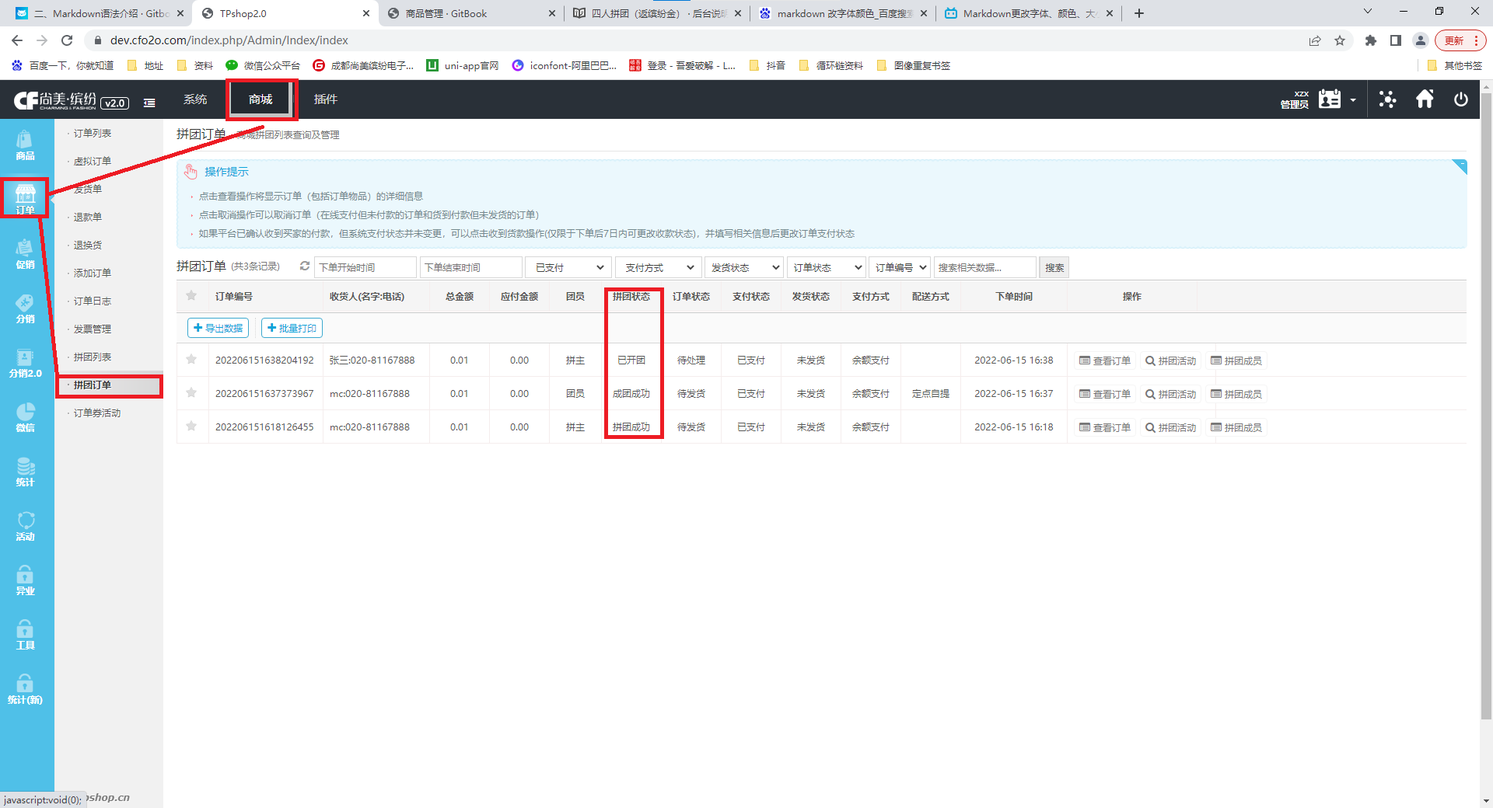
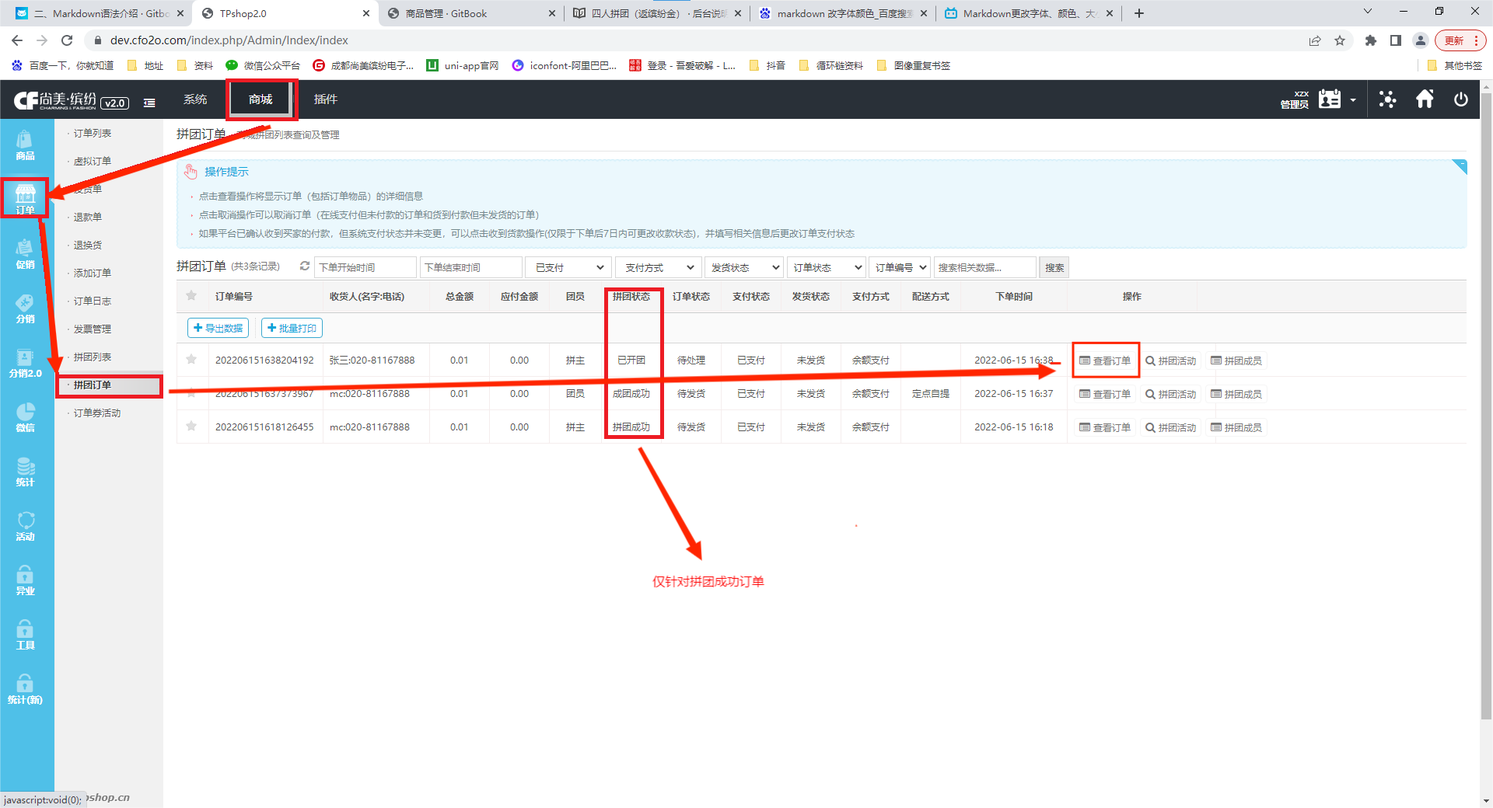
更新说明

diff --git a/store/team-rebate.html b/store/team-rebate.html
@@ -247,42 +247,21 @@
     <div class="search-noresults">
     
           <section class="normal markdown-section">
-             <h1 id="&#x56DB;&#x4EBA;&#x62FC;&#x56E2;&#xFF08;&#x8FD4;&#x7F24;&#x7EB7;&#x91D1;&#xFF09;">&#x56DB;&#x4EBA;&#x62FC;&#x56E2;&#xFF08;&#x8FD4;&#x7F24;&#x7EB7;&#x91D1;&#xFF09;</h1>
+             <p>&#x56DB;&#x4EBA;&#x62FC;&#x56E2;&#xFF08;&#x8FD4;&#x7F24;&#x7EB7;&#x91D1;&#xFF09;</p>
 <p>&#x529F;&#x80FD;&#x8DEF;&#x5F84; <strong>&#x5546;&#x57CE;-&#x4FC3;&#x9500;-&#x62FC;&#x56E2;&#x7BA1;&#x7406; </strong></p>
-<p><a href="static/&#x62FC;&#x56E2;&#x8DEF;&#x5F84;.png" data-lightbox="179a592f-9a16-48c9-af24-c11122680eb8" data-title=""><img src="static/&#x62FC;&#x56E2;&#x8DEF;&#x5F84;.png" alt=""></a></p>
+<p><a href="static/&#x62FC;&#x56E2;&#x8DEF;&#x5F84;.png" data-lightbox="ed8d4ad2-4d37-4e20-ad98-89fb1417a46e" data-title=""><img src="static/&#x62FC;&#x56E2;&#x8DEF;&#x5F84;.png" alt=""></a></p>
 <p>&#x70B9;&#x51FB; <strong>&#x6DFB;&#x52A0;&#x62FC;&#x56E2;</strong>&#x6309;&#x94AE;&#xFF0C;&#x589E;&#x52A0;&#x62FC;&#x56E2;&#x6D3B;&#x52A8;</p>
 <hr>
 <h2 id="&#x6DFB;&#x52A0;&#x56DB;&#x4EBA;&#x62FC;&#x56E2;&#xFF08;&#x8FD4;&#x7F24;&#x7EB7;&#x91D1;&#xFF09;">&#x6DFB;&#x52A0;&#x56DB;&#x4EBA;&#x62FC;&#x56E2;&#xFF08;&#x8FD4;&#x7F24;&#x7EB7;&#x91D1;&#xFF09;</h2>
-<p><a href="static/&#x6DFB;&#x52A0;&#x56DB;&#x4EBA;&#x62FC;&#x56E2;1.png" data-lightbox="179a592f-9a16-48c9-af24-c11122680eb8" data-title=""><img src="static/&#x6DFB;&#x52A0;&#x56DB;&#x4EBA;&#x62FC;&#x56E2;1.png" alt=""></a></p>
-<p><strong>&#x62FC;&#x56E2;&#x6807;&#x9898;</strong>&#xFF1A;&#x4E0A;&#x4E00;&#x7EA7;&#x62FC;&#x56E2;&#x5217;&#x8868;&#x663E;&#x793A;&#x7684;&#x62FC;&#x56E2;&#x540D;&#x5B57;&#xFF0C;&#x6807;&#x8BC6;&#x7B26;</p>
-<p><strong>&#x53D1;&#x653E;&#x7C7B;&#x578B;</strong>&#xFF1A;&#x9009;&#x62E9;<strong>&#x56DB;&#x4EBA;&#x62FC;&#x56E2;</strong> &#xFF0C;&#x8FD9;&#x91CC;&#x7684;&#x56DB;&#x4EBA;&#x62FC;&#x56E2;&#x9009;&#x9879;&#x5C31;&#x662F;&#x62FC;&#x56E2;&#x8FD4;&#x7F24;&#x7EB7;&#x91D1;&#x7684;&#x9009;&#x9879;</p>
-<p><strong>&#x9009;&#x62E9;&#x62FC;&#x56E2;&#x5546;&#x54C1;</strong>&#xFF1A;&#x5728;&#x5546;&#x54C1;&#x5E93;&#x4E2D;&#xFF0C;&#x9009;&#x62E9;<font color="red">&#x4E00;&#x6B3E;&#x6D3B;&#x52A8;/&#x54C1;&#x724C;&#x7F24;&#x7EB7;&#x91D1;</font>&#x5546;&#x54C1;&#x4F5C;&#x4E3A;&#x62FC;&#x56E2;&#x5546;&#x54C1;&#xFF08;    <font color="red">&#x6CE8;&#x610F;&#xFF1A;&#x8FD4;&#x7F24;&#x7EB7;&#x91D1;&#x7684;&#x7C7B;&#x578B;&#xFF0C;&#x53D6;&#x51B3;&#x4E8E;&#x8BE5;&#x5546;&#x54C1;&#x5C5E;&#x4E8E;&#x6D3B;&#x52A8;/&#x54C1;&#x724C;&#x7F24;&#x7EB7;&#x91D1;&#x5546;&#x54C1;</font>&#xFF09;&#x3010;&#x8BBE;&#x7F6E;&#x7F24;&#x7EB7;&#x91D1;&#x5546;&#x54C1;&#x5730;&#x5740;&#xFF08;&#x7CFB;&#x7EDF;-&#x8BBE;&#x7F6E;-&#x65B0;&#x7248;&#x7F24;&#x7EB7;&#x91D1;&#x8BBE;&#x7F6E;&#xFF09;&#x3011;</p>
-<p><strong>&#x6210;&#x56E2;&#x6709;&#x6548;&#x671F;</strong>&#xFF1A;&#x62FC;&#x56E2;&#x8BA2;&#x5355;&#x7684;&#x8FC7;&#x671F;&#x65F6;&#x95F4;</p>
-<p><strong>&#x7F24;&#x7EB7;&#x91D1;&#x6709;&#x6548;&#x65F6;&#x95F4;</strong>&#xFF1A;&#x8FD4;&#x8FD8;&#x7F24;&#x7EB7;&#x91D1;&#x7684;&#x6709;&#x6548;&#x65F6;&#x95F4;&#xFF0C;&#x4ECE;&#x62FC;&#x56E2;&#x6210;&#x529F;&#x540E;&#x7684;&#x65F6;&#x95F4;&#x5F00;&#x59CB;&#x8BA1;&#x7B97;</p>
-<p><strong>&#x56DB;&#x4EBA;&#x62FC;&#x56E2;&#x5206;&#x7EC4;</strong>&#xFF1A;&#x628A;&#x51E0;&#x4E2A;&#x62FC;&#x56E2;&#x6D3B;&#x52A8;&#x5546;&#x54C1;&#x6574;&#x5408;&#x6210;&#x4E00;&#x4E2A;&#x6D3B;&#x52A8;&#x5C0F;&#x7EC4;&#xFF0C;&#x540C;&#x4E00;&#x6D3B;&#x52A8;&#x5C0F;&#x7EC4;&#x7684;&#x62FC;&#x56E2;&#x5171;&#x4EAB;&#x5F00;&#x56E2;&#x6B21;&#x6570;&#x548C;&#x53C2;&#x56E2;&#x6B21;&#x6570;&#x3002;&#x76F8;&#x540C;&#x6570;&#x5B57;&#x7684;&#x51E0;&#x4E2A;&#x5546;&#x54C1;&#x88AB;&#x89C6;&#x4E3A;&#x4E00;&#x7EC4;&#x3002;</p>
-<p><strong>&#x5F00;&#x56E2;&#x6B21;&#x6570;&#x5546;&#x54C1;</strong>&#xFF1A;&#x62FC;&#x56E2;&#x53D1;&#x8D77;&#x8005;&#x7684;&#x6700;&#x5927;&#x53D1;&#x8D77;&#x6B21;&#x6570;</p>
-<p><strong>&#x53C2;&#x56E2;&#x6B21;&#x6570;&#x4E0A;&#x9650;</strong>&#xFF1A;&#x62FC;&#x56E2;&#x53C2;&#x4E0E;&#x8005;&#x7684;&#x6700;&#x5927;&#x53C2;&#x4E0E;&#x6B21;&#x6570;</p>
-<p><strong>&#x62FC;&#x56E2;&#x4EF7;&#x683C;</strong>&#xFF1A;&#x5546;&#x54C1;&#x5728;&#x62FC;&#x56E2;&#x6D3B;&#x52A8;&#x91CC;&#x7684;&#x4EF7;&#x683C;</p>
-<p><strong>&#x9700;&#x8981;&#x6210;&#x56E2;&#x4EBA;&#x6570;</strong>&#xFF1A;&#x62FC;&#x56E2;&#x9700;&#x8981;&#x7684;&#x6210;&#x529F;&#x4EBA;&#x6570;</p>
-<p><strong>&#x865A;&#x62DF;&#x9500;&#x552E;&#x57FA;&#x6570;</strong>&#xFF1A;&#x56DB;&#x4EBA;&#x62FC;&#x56E2;&#x529F;&#x80FD;&#x672A;&#x5C55;&#x793A;&#x5DF2;&#x9500;&#x552E;&#x6570;&#x91CF;&#xFF0C;&#x53EF;&#x5FFD;&#x7565;</p>
-<p><a href="static/&#x6DFB;&#x52A0;&#x56DB;&#x4EBA;&#x62FC;&#x56E2;2.png" data-lightbox="179a592f-9a16-48c9-af24-c11122680eb8" data-title=""><img src="static/&#x6DFB;&#x52A0;&#x56DB;&#x4EBA;&#x62FC;&#x56E2;2.png" alt=""></a></p>
-<p><strong>&#x5F00;&#x59CB;&#x65F6;&#x95F4;</strong>&#xFF1A;&#x62FC;&#x56E2;&#x5546;&#x54C1;&#x5F00;&#x56E2;&#x7684;&#x65F6;&#x95F4;&#xFF0C;&#x53EF;&#x63D0;&#x524D;&#x51E0;&#x5929;&#x6DFB;&#x52A0;&#xFF0C;&#x7528;&#x6237;&#x7AEF;&#x4F1A;&#x663E;&#x793A;&#x5F00;&#x56E2;&#x7684;&#x5F00;&#x59CB;&#x65F6;&#x95F4;</p>
-<p><strong>&#x7ED3;&#x675F;&#x65F6;&#x95F4;</strong>&#xFF1A;&#x62FC;&#x56E2;&#x5546;&#x54C1;&#x7ED3;&#x675F;&#x7684;&#x65F6;&#x95F4;&#x3002;&#x7528;&#x6237;&#x7AEF;&#x4F1A;&#x6709;&#x5012;&#x8BA1;&#x65F6;&#xFF0C;&#x6700;&#x5927;&#x5355;&#x4F4D;&#xFF1A;&#x5929;</p>
-<p><strong>&#x5206;&#x4EAB;&#x6807;&#x9898;</strong>&#xFF1A;&#x5206;&#x4EAB;&#x62FC;&#x56E2;&#x65F6;&#x7684;&#x6807;&#x9898;</p>
-<p><strong>&#x5206;&#x4EAB;&#x63CF;&#x8FF0;</strong>&#xFF1A;&#x5206;&#x4EAB;&#x62FC;&#x56E2;&#x65F6;&#x7684;&#x5177;&#x4F53;&#x63CF;&#x8FF0;</p>
-<p><strong>&#x5206;&#x4EAB;&#x56FE;&#x7247;</strong>&#xFF1A;&#x5206;&#x4EAB;&#x62FC;&#x56E2;&#x65F6;&#x7684;&#x56FE;&#x7247;</p>
-<p><strong>&#x53C2;&#x56E2;&#x7528;&#x6237;</strong>&#xFF1A;&#x9ED8;&#x8BA4;&#x5168;&#x90E8;&#x4F1A;&#x5458;&#xFF0C;&#x5F53;&#x9009;&#x62E9;&#x65B0;&#x6CE8;&#x518C;&#x7528;&#x6237;&#x65F6;&#xFF0C;&#x5219;&#x8001;&#x7528;&#x6237;&#x65E0;&#x6CD5;&#x62FC;&#x56E2;</p>
-<p><strong>&#x662F;&#x5426;&#x5305;&#x90AE;</strong>&#xFF1A;&#x9009;&#x62E9;&#x4E0D;&#x5305;&#x90AE;&#x65F6;&#xFF0C;&#x53EF;&#x5728;&#x53F3;&#x8FB9;&#x9009;&#x62E9;&#x8FD0;&#x8D39;&#x6A21;&#x677F;&#xFF0C;&#x4E3A;&#x5F53;&#x524D;&#x5546;&#x54C1;&#x9009;&#x62E9;&#x72EC;&#x7ACB;&#x7684;&#x8FD0;&#x8D39;&#x89C4;&#x5219;</p>
-<p><strong>&#x662F;&#x5426;&#x81EA;&#x52A8;&#x786E;&#x8BA4;&#x62FC;&#x56E2;</strong>&#xFF1A;&#x9ED8;&#x8BA4;&#x662F;&#xFF0C;&#x56DB;&#x4EBA;&#x62FC;&#x56E2;&#x4E0D;&#x80FD;&#x9009;&#x62E9;&#x5426;</p>
-<h3 id="&#x6CE8;&#x610F;">&#x6CE8;&#x610F;</h3>
-<p>&#x6DFB;&#x52A0;&#x62FC;&#x56E2;&#x540E;&#xFF0C;&#x672A;&#x6709;&#x62FC;&#x56E2;&#x8BA2;&#x5355;&#x65F6;&#xFF0C;&#x53EF;&#x5BF9;&#x62FC;&#x56E2;&#x8BBE;&#x7F6E;&#x8FDB;&#x884C;&#x66F4;&#x6539;&#xFF0C;&#x5F53;&#x5DF2;&#x521B;&#x5EFA;&#x62FC;&#x56E2;&#x8BA2;&#x5355;&#x540E;&#xFF0C;&#x5C06;&#x65E0;&#x6CD5;&#x66F4;&#x6539;&#x62FC;&#x56E2;&#x8BBE;&#x7F6E;</p>
+<h3 id=""><a href="static/&#x62FC;&#x56E2;&#x53C2;&#x6570;&#x8BF4;&#x660E;1.png" data-lightbox="ed8d4ad2-4d37-4e20-ad98-89fb1417a46e" data-title=""><img src="static/&#x62FC;&#x56E2;&#x53C2;&#x6570;&#x8BF4;&#x660E;1.png" alt=""></a></h3>
+<p><a href="static/&#x62FC;&#x56E2;&#x53C2;&#x6570;&#x8BF4;&#x660E;2.png" data-lightbox="ed8d4ad2-4d37-4e20-ad98-89fb1417a46e" data-title=""><img src="static/&#x62FC;&#x56E2;&#x53C2;&#x6570;&#x8BF4;&#x660E;2.png" alt=""></a>
+&#x6DFB;&#x52A0;&#x62FC;&#x56E2;&#x540E;&#xFF0C;&#x672A;&#x6709;&#x62FC;&#x56E2;&#x8BA2;&#x5355;&#x65F6;&#xFF0C;&#x53EF;&#x5BF9;&#x62FC;&#x56E2;&#x8BBE;&#x7F6E;&#x8FDB;&#x884C;&#x66F4;&#x6539;&#xFF0C;&#x5F53;&#x5DF2;&#x521B;&#x5EFA;&#x62FC;&#x56E2;&#x8BA2;&#x5355;&#x540E;&#xFF0C;&#x5C06;&#x65E0;&#x6CD5;&#x66F4;&#x6539;&#x62FC;&#x56E2;&#x8BBE;&#x7F6E;</p>
 <h3 id="&#x62FC;&#x56E2;&#x6210;&#x529F;-&#x540E;&#x53F0;-&#x9000;&#x6B3E;&#x529F;&#x80FD;">&#x62FC;&#x56E2;&#x6210;&#x529F; &#x540E;&#x53F0; &#x9000;&#x6B3E;&#x529F;&#x80FD;</h3>
-<p>  <a href="static/&#x62FC;&#x56E2;&#x5217;&#x8868;&#x9000;&#x6B3E;1.png" data-lightbox="179a592f-9a16-48c9-af24-c11122680eb8" data-title=""><img src="static/&#x62FC;&#x56E2;&#x5217;&#x8868;&#x9000;&#x6B3E;1.png" alt=""></a></p>
-<h3 id="&#x4EC5;&#x9488;&#x5BF9;&#x62FC;&#x56E2;&#x6210;&#x529F;&#x7684;&#x8BA2;&#x5355;">&#x4EC5;&#x9488;&#x5BF9;&#x62FC;&#x56E2;&#x6210;&#x529F;&#x7684;&#x8BA2;&#x5355;</h3>
+<p>  <a href="static/&#x62FC;&#x56E2;&#x5217;&#x8868;&#x9000;&#x6B3E;1.png" data-lightbox="ed8d4ad2-4d37-4e20-ad98-89fb1417a46e" data-title=""><img src="static/&#x62FC;&#x56E2;&#x5217;&#x8868;&#x9000;&#x6B3E;1.png" alt=""></a></p>
 <h3 id="&#x70B9;&#x51FB;&#x67E5;&#x770B;&#x8BA2;&#x5355;&#x8FDB;&#x5165;&#x652F;&#x6301;&#x6B64;&#x64CD;&#x4F5C;&#x65F6;&#xFF0C;&#x4F1A;&#x663E;&#x793A;&#x5728;&#x64CD;&#x4F5C;&#x4FE1;&#x606F;&#x91CC;">&#x70B9;&#x51FB;&#x67E5;&#x770B;&#x8BA2;&#x5355;&#x8FDB;&#x5165;(&#x652F;&#x6301;&#x6B64;&#x64CD;&#x4F5C;&#x65F6;&#xFF0C;&#x4F1A;&#x663E;&#x793A;&#x5728;&#x64CD;&#x4F5C;&#x4FE1;&#x606F;&#x91CC;)</h3>
-<p><a href="static/&#x62FC;&#x56E2;&#x5217;&#x8868;&#x9000;&#x6B3E;2.png" data-lightbox="179a592f-9a16-48c9-af24-c11122680eb8" data-title=""><img src="static/&#x62FC;&#x56E2;&#x5217;&#x8868;&#x9000;&#x6B3E;2.png" alt=""></a></p>
+<p><a href="static/&#x62FC;&#x56E2;&#x5217;&#x8868;&#x9000;&#x6B3E;2.png" data-lightbox="ed8d4ad2-4d37-4e20-ad98-89fb1417a46e" data-title=""><img src="static/&#x62FC;&#x56E2;&#x5217;&#x8868;&#x9000;&#x6B3E;2.png" alt=""></a></p>
 <h3 id="&#x6CE8;&#x610F;">&#x6CE8;&#x610F;</h3>
-<font style="color:red">1.&#x6536;&#x5230;&#x8D27;&#x540E;14&#x5929;&#x540E;&#xFF0C;&#x89E3;&#x51BB;&#x7F24;&#x7EB7;&#x91D1;</font><script>document.addEventListener("DOMContentLoaded", function() {lightbox.option({"resizeDuration":200,"wrapAround":true});})</script> 
+<font style="color:red">1.&#x6536;&#x5230;&#x8D27;&#x6216;&#x8005;&#x7528;&#x6237;&#x786E;&#x8BA4;&#x6536;&#x8D27;&#x540E;&#xFF0C;7&#x5929;&#x540E;&#xFF0C;&#x89E3;&#x51BB;&#x7F24;&#x7EB7;&#x91D1;</font><script>document.addEventListener("DOMContentLoaded", function() {lightbox.option({"resizeDuration":200,"wrapAround":true});})</script> 
           </section>
           
     </div>
@@ -363,7 +342,7 @@
 
     var gitbook = gitbook || [];
     gitbook.push(function () {
-      gitbook.page.hasChanged({"page":{"title":"四人拼团（返缤纷金）","level":"1.3.1","depth":2,"previous":{"title":"商城","level":"1.3","depth":1,"path":"store/README.md","ref":"store/README.md","articles":[{"title":"四人拼团（返缤纷金）","level":"1.3.1","depth":2,"path":"store/team-rebate.md","ref":"store/team-rebate.md","articles":[]}]},"dir":"ltr"},"config":{"plugins":["search-pro","code","expandable-chapters","theme-lou","lightbox"],"styles":{"website":"styles/website.css","pdf":"styles/pdf.css","epub":"styles/epub.css","mobi":"styles/mobi.css","ebook":"styles/ebook.css","print":"styles/print.css"},"pluginsConfig":{"search-pro":{},"search":{},"lunr":{"maxIndexSize":1000000,"ignoreSpecialCharacters":false},"code":{"copyButtons":true,"copyButton":true},"theme-lou":{"hide-elements":[".summary .gitbook-link",".summary .divider",".book-anchor-title",".title",".book-summary-title"],"color":"#20A3FF","book-anchor-title":"","logo":"static/logo.png","book-summary-title":"说明文档","search-placeholder":"搜索","copyrightLogo":"assets/copyright.png","favicon":"static/favicon.ico","appleTouchIconPrecomposed152":"static/apple.png"},"fontsettings":{"theme":"white","family":"sans","size":2},"highlight":{},"lightbox":{"jquery":true,"includeJQuery":false,"sameUuid":true,"options":{"resizeDuration":200,"wrapAround":true}},"sharing":{"facebook":true,"twitter":true,"google":false,"weibo":false,"instapaper":false,"vk":false,"all":["facebook","google","twitter","weibo","instapaper"]},"theme-default":{"styles":{"website":"styles/website.css","pdf":"styles/pdf.css","epub":"styles/epub.css","mobi":"styles/mobi.css","ebook":"styles/ebook.css","print":"styles/print.css"},"showLevel":false},"expandable-chapters":{}},"theme":"default","author":"作者","pdf":{"pageNumbers":true,"fontSize":12,"fontFamily":"Arial","paperSize":"a4","chapterMark":"pagebreak","pageBreaksBefore":"/","margin":{"right":62,"left":62,"top":56,"bottom":56}},"structure":{"langs":"LANGS.md","readme":"README.md","glossary":"GLOSSARY.md","summary":"SUMMARY.md"},"isbn":"图书编号","variables":{},"title":"后台说明文档","language":"zh-hans","gitbook":"*","description":"针对于后台的一本说明文档"},"file":{"path":"store/team-rebate.md","mtime":"2022-06-18T02:56:27.305Z","type":"markdown"},"gitbook":{"version":"3.2.3","time":"2022-06-18T02:56:54.617Z"},"basePath":"..","book":{"language":""}});
+      gitbook.page.hasChanged({"page":{"title":"四人拼团（返缤纷金）","level":"1.3.1","depth":2,"previous":{"title":"商城","level":"1.3","depth":1,"path":"store/README.md","ref":"store/README.md","articles":[{"title":"四人拼团（返缤纷金）","level":"1.3.1","depth":2,"path":"store/team-rebate.md","ref":"store/team-rebate.md","articles":[]}]},"dir":"ltr"},"config":{"plugins":["search-pro","code","expandable-chapters","theme-lou","lightbox"],"styles":{"website":"styles/website.css","pdf":"styles/pdf.css","epub":"styles/epub.css","mobi":"styles/mobi.css","ebook":"styles/ebook.css","print":"styles/print.css"},"pluginsConfig":{"search-pro":{},"search":{},"lunr":{"maxIndexSize":1000000,"ignoreSpecialCharacters":false},"code":{"copyButtons":true,"copyButton":true},"theme-lou":{"hide-elements":[".summary .gitbook-link",".summary .divider",".book-anchor-title",".title",".book-summary-title"],"color":"#20A3FF","book-anchor-title":"","logo":"static/logo.png","book-summary-title":"说明文档","search-placeholder":"搜索","copyrightLogo":"assets/copyright.png","favicon":"static/favicon.ico","appleTouchIconPrecomposed152":"static/apple.png"},"fontsettings":{"theme":"white","family":"sans","size":2},"highlight":{},"lightbox":{"jquery":true,"includeJQuery":false,"sameUuid":true,"options":{"resizeDuration":200,"wrapAround":true}},"sharing":{"facebook":true,"twitter":true,"google":false,"weibo":false,"instapaper":false,"vk":false,"all":["facebook","google","twitter","weibo","instapaper"]},"theme-default":{"styles":{"website":"styles/website.css","pdf":"styles/pdf.css","epub":"styles/epub.css","mobi":"styles/mobi.css","ebook":"styles/ebook.css","print":"styles/print.css"},"showLevel":false},"expandable-chapters":{}},"theme":"default","author":"作者","pdf":{"pageNumbers":true,"fontSize":12,"fontFamily":"Arial","paperSize":"a4","chapterMark":"pagebreak","pageBreaksBefore":"/","margin":{"right":62,"left":62,"top":56,"bottom":56}},"structure":{"langs":"LANGS.md","readme":"README.md","glossary":"GLOSSARY.md","summary":"SUMMARY.md"},"isbn":"图书编号","variables":{},"title":"后台说明文档","language":"zh-hans","gitbook":"*","description":"针对于后台的一本说明文档"},"file":{"path":"store/team-rebate.md","mtime":"2022-07-05T07:53:39.786Z","type":"markdown"},"gitbook":{"version":"3.2.3","time":"2022-07-05T08:00:33.953Z"},"basePath":"..","book":{"language":""}});
     });
   </script>
 </div>

diff --git a/system/new-color-gold.html b/system/new-color-gold.html
@@ -253,14 +253,7 @@
 <p>&#x6B64;&#x5904;&#x662F;&#x6279;&#x91CF;&#x7ED9;&#x666E;&#x901A;&#x5546;&#x54C1;&#x6253;&#x4E0A; <strong>&#x6D3B;&#x52A8;/&#x54C1;&#x724C;&#x7F24;&#x7EB7;&#x91D1;&#x6807;&#x7B7E;  </strong>,&#x5F53;&#x7528;&#x6237;&#x5B58;&#x5728;&#x5BF9;&#x5E94;&#x7F24;&#x7EB7;&#x91D1;&#x65F6;&#xFF0C;&#x5219;&#x53EF;&#x4EE5;&#x4F7F;&#x7528;&#x5BF9;&#x5E94;&#x7F24;&#x7EB7;&#x91D1;&#x8D2D;&#x4E70;&#x7F24;&#x7EB7;&#x91D1;&#x5546;&#x54C1;</p>
 <p>&#x6CE8;&#xFF1A;&#x7EFC;&#x5408;&#x7F24;&#x7EB7;&#x91D1; === &#x6D3B;&#x52A8;&#x7F24;&#x7EB7;&#x91D1;</p>
 <h4 id="&#x6279;&#x91CF;&#x6DFB;&#x52A0;&#x6D3B;&#x52A8;&#x54C1;&#x724C;&#x7F24;&#x7EB7;&#x91D1;&#x6807;&#x7B7E;">&#x6279;&#x91CF;&#x6DFB;&#x52A0;&#x6D3B;&#x52A8;/&#x54C1;&#x724C;&#x7F24;&#x7EB7;&#x91D1;&#x6807;&#x7B7E;</h4>
-<p><a href="static/&#x65B0;&#x7248;&#x7F24;&#x7EB7;&#x91D1;.png" data-lightbox="7d6be4ac-d332-41d8-80c7-9309259b5f5b" data-title="undefined"><img src="static/&#x65B0;&#x7248;&#x7F24;&#x7EB7;&#x91D1;.png" alt="undefined"></a></p>
-<p>&#x70B9;&#x51FB; <strong>&#x9009;&#x62E9;&#x5546;&#x54C1;</strong>  &#x53EF;&#x4EE5;&#x4ECE;&#x5DF2;&#x6709;&#x7684;&#x5546;&#x54C1;&#x5E93;&#x4E2D;&#xFF0C;&#x9009;&#x62E9;&#x5176;&#x4E2D;&#x7684;&#x666E;&#x901A;&#x5546;&#x54C1;&#xFF0C;&#x4F7F;&#x5176;&#x52A0;&#x4E0A;&#x5BF9;&#x5E94;&#x7684;&#x6807;&#x7B7E;</p>
-<p>&#x70B9;&#x51FB; <strong>&#x4E0A;&#x4F20;&#x6587;&#x4EF6; </strong> &#x53EF;&#x4EE5;&#x4ECE; <code>.xls .xlsx .csv</code>&#x8FD9;&#x4E09;&#x4E2D;&#x8868;&#x683C;&#x683C;&#x5F0F;&#x4E2D;&#xFF0C;&#x6279;&#x91CF;&#x5BFC;&#x5165;&#x9700;&#x8981;&#x52A0;&#x5165;&#x7684;&#x5546;&#x54C1;</p>
-<h4 id="&#x6D3B;&#x52A8;&#x7EFC;&#x5408;&#x7F24;&#x7EB7;&#x91D1;&#x4F7F;&#x7528;&#x6BD4;&#x4F8B;">&#x6D3B;&#x52A8;/&#x7EFC;&#x5408;&#x7F24;&#x7EB7;&#x91D1;&#x4F7F;&#x7528;&#x6BD4;&#x4F8B;</h4>
-<p><a href="static/&#x7F24;&#x7EB7;&#x91D1;&#x6BD4;&#x4F8B;.png" data-lightbox="7d6be4ac-d332-41d8-80c7-9309259b5f5b" data-title=""><img src="static/&#x7F24;&#x7EB7;&#x91D1;&#x6BD4;&#x4F8B;.png" alt=""></a></p>
-<p>&#x6B64;&#x5904;&#x7684; <strong>&#x4F7F;&#x7528;&#x6BD4;&#x4F8B;</strong>&#x662F;&#x6307;&#x5F53;&#x524D;&#x5546;&#x54C1;&#x6D3B;&#x52A8;/&#x54C1;&#x724C;&#x7F24;&#x7EB7;&#x91D1;&#x4F7F;&#x7528;&#x6BD4;&#x4F8B;</p>
-<p>&#x5546;&#x54C1;&#x4EF7;&#x683C; * &#x4F7F;&#x7528;&#x6BD4;&#x4F8B; = &#x5546;&#x54C1;&#x6700;&#x5927;&#x80FD;&#x4F7F;&#x7528;&#x7684;&#x6D3B;&#x52A8;/&#x54C1;&#x724C;&#x7F24;&#x7EB7;&#x91D1;&#x6570;&#x91CF;</p>
-<p>&#x8BBE;&#x7F6E;&#x4E3A;0&#x5219;&#x8868;&#x793A;  &#x4EC5;&#x5728;&#x62FC;&#x56E2;&#x8BA2;&#x5355;&#x4E2D;&#x663E;&#x793A;</p>
+<p><a href="static/&#x65B0;&#x7248;&#x7F24;&#x7EB7;&#x91D1;.png" data-lightbox="2a6e7fdd-1bb4-43ff-bd93-e59561113e93" data-title="undefined"><img src="static/&#x65B0;&#x7248;&#x7F24;&#x7EB7;&#x91D1;.png" alt="undefined"></a></p>
 <h4 id="&#x6CE8;&#x610F;">&#x6CE8;&#x610F;</h4>
 <p>&#x5728;&#x70B9;&#x51FB;&#x5E95;&#x90E8;  <strong>&#x786E;&#x8BA4;&#x63D0;&#x4EA4;</strong> &#x6309;&#x94AE;&#x4E4B;&#x540E;&#xFF0C;&#x4E0A;&#x65B9;&#x9009;&#x62E9;&#x7684;&#x5546;&#x54C1;&#x624D;&#x4F1A;&#x88AB;&#x6DFB;&#x52A0;&#x4E0A;&#x6D3B;&#x52A8;/&#x54C1;&#x724C;&#x7F24;&#x7EB7;&#x91D1;&#x6807;&#x7B7E;</p>
 <script>document.addEventListener("DOMContentLoaded", function() {lightbox.option({"resizeDuration":200,"wrapAround":true});})</script> 
@@ -355,7 +348,7 @@
 
     var gitbook = gitbook || [];
     gitbook.push(function () {
-      gitbook.page.hasChanged({"page":{"title":"新版缤纷金","level":"1.2.1","depth":2,"next":{"title":"商城","level":"1.3","depth":1,"path":"store/README.md","ref":"store/README.md","articles":[{"title":"四人拼团（返缤纷金）","level":"1.3.1","depth":2,"path":"store/team-rebate.md","ref":"store/team-rebate.md","articles":[]}]},"previous":{"title":"系统","level":"1.2","depth":1,"path":"system/README.md","ref":"system/README.md","articles":[{"title":"新版缤纷金","level":"1.2.1","depth":2,"path":"system/new-color-gold.md","ref":"system/new-color-gold.md","articles":[]}]},"dir":"ltr"},"config":{"plugins":["search-pro","code","expandable-chapters","theme-lou","lightbox"],"styles":{"website":"styles/website.css","pdf":"styles/pdf.css","epub":"styles/epub.css","mobi":"styles/mobi.css","ebook":"styles/ebook.css","print":"styles/print.css"},"pluginsConfig":{"search-pro":{},"search":{},"lunr":{"maxIndexSize":1000000,"ignoreSpecialCharacters":false},"code":{"copyButtons":true,"copyButton":true},"theme-lou":{"hide-elements":[".summary .gitbook-link",".summary .divider",".book-anchor-title",".title",".book-summary-title"],"color":"#20A3FF","book-anchor-title":"","logo":"static/logo.png","book-summary-title":"说明文档","search-placeholder":"搜索","copyrightLogo":"assets/copyright.png","favicon":"static/favicon.ico","appleTouchIconPrecomposed152":"static/apple.png"},"fontsettings":{"theme":"white","family":"sans","size":2},"highlight":{},"lightbox":{"jquery":true,"includeJQuery":false,"sameUuid":true,"options":{"resizeDuration":200,"wrapAround":true}},"sharing":{"facebook":true,"twitter":true,"google":false,"weibo":false,"instapaper":false,"vk":false,"all":["facebook","google","twitter","weibo","instapaper"]},"theme-default":{"styles":{"website":"styles/website.css","pdf":"styles/pdf.css","epub":"styles/epub.css","mobi":"styles/mobi.css","ebook":"styles/ebook.css","print":"styles/print.css"},"showLevel":false},"expandable-chapters":{}},"theme":"default","author":"作者","pdf":{"pageNumbers":true,"fontSize":12,"fontFamily":"Arial","paperSize":"a4","chapterMark":"pagebreak","pageBreaksBefore":"/","margin":{"right":62,"left":62,"top":56,"bottom":56}},"structure":{"langs":"LANGS.md","readme":"README.md","glossary":"GLOSSARY.md","summary":"SUMMARY.md"},"isbn":"图书编号","variables":{},"title":"后台说明文档","language":"zh-hans","gitbook":"*","description":"针对于后台的一本说明文档"},"file":{"path":"system/new-color-gold.md","mtime":"2022-06-16T08:58:51.593Z","type":"markdown"},"gitbook":{"version":"3.2.3","time":"2022-06-18T02:56:54.617Z"},"basePath":"..","book":{"language":""}});
+      gitbook.page.hasChanged({"page":{"title":"新版缤纷金","level":"1.2.1","depth":2,"next":{"title":"商城","level":"1.3","depth":1,"path":"store/README.md","ref":"store/README.md","articles":[{"title":"四人拼团（返缤纷金）","level":"1.3.1","depth":2,"path":"store/team-rebate.md","ref":"store/team-rebate.md","articles":[]}]},"previous":{"title":"系统","level":"1.2","depth":1,"path":"system/README.md","ref":"system/README.md","articles":[{"title":"新版缤纷金","level":"1.2.1","depth":2,"path":"system/new-color-gold.md","ref":"system/new-color-gold.md","articles":[]}]},"dir":"ltr"},"config":{"plugins":["search-pro","code","expandable-chapters","theme-lou","lightbox"],"styles":{"website":"styles/website.css","pdf":"styles/pdf.css","epub":"styles/epub.css","mobi":"styles/mobi.css","ebook":"styles/ebook.css","print":"styles/print.css"},"pluginsConfig":{"search-pro":{},"search":{},"lunr":{"maxIndexSize":1000000,"ignoreSpecialCharacters":false},"code":{"copyButtons":true,"copyButton":true},"theme-lou":{"hide-elements":[".summary .gitbook-link",".summary .divider",".book-anchor-title",".title",".book-summary-title"],"color":"#20A3FF","book-anchor-title":"","logo":"static/logo.png","book-summary-title":"说明文档","search-placeholder":"搜索","copyrightLogo":"assets/copyright.png","favicon":"static/favicon.ico","appleTouchIconPrecomposed152":"static/apple.png"},"fontsettings":{"theme":"white","family":"sans","size":2},"highlight":{},"lightbox":{"jquery":true,"includeJQuery":false,"sameUuid":true,"options":{"resizeDuration":200,"wrapAround":true}},"sharing":{"facebook":true,"twitter":true,"google":false,"weibo":false,"instapaper":false,"vk":false,"all":["facebook","google","twitter","weibo","instapaper"]},"theme-default":{"styles":{"website":"styles/website.css","pdf":"styles/pdf.css","epub":"styles/epub.css","mobi":"styles/mobi.css","ebook":"styles/ebook.css","print":"styles/print.css"},"showLevel":false},"expandable-chapters":{}},"theme":"default","author":"作者","pdf":{"pageNumbers":true,"fontSize":12,"fontFamily":"Arial","paperSize":"a4","chapterMark":"pagebreak","pageBreaksBefore":"/","margin":{"right":62,"left":62,"top":56,"bottom":56}},"structure":{"langs":"LANGS.md","readme":"README.md","glossary":"GLOSSARY.md","summary":"SUMMARY.md"},"isbn":"图书编号","variables":{},"title":"后台说明文档","language":"zh-hans","gitbook":"*","description":"针对于后台的一本说明文档"},"file":{"path":"system/new-color-gold.md","mtime":"2022-07-05T07:18:17.496Z","type":"markdown"},"gitbook":{"version":"3.2.3","time":"2022-07-05T08:00:33.953Z"},"basePath":"..","book":{"language":""}});
     });
   </script>
 </div>

diff --git a/index.html b/index.html
@@ -247,8 +247,8 @@
     <div class="search-noresults">
     
           <section class="normal markdown-section">
-             <h2 id="&#x7CFB;&#x7EDF;"><a href="system/">&#x7CFB;&#x7EDF;</a></h2>
-<h2 id="&#x5546;&#x57CE;"><a href="store/">&#x5546;&#x57CE;</a></h2>
+             <h1 id="&#x7CFB;&#x7EDF;"><a href="system/">&#x7CFB;&#x7EDF;</a></h1>
+<h1 id="&#x5546;&#x57CE;"><a href="store/">&#x5546;&#x57CE;</a></h1>
 <script>document.addEventListener("DOMContentLoaded", function() {lightbox.option({"resizeDuration":200,"wrapAround":true});})</script> 
           </section>
           
@@ -330,7 +330,7 @@
 
     var gitbook = gitbook || [];
     gitbook.push(function () {
-      gitbook.page.hasChanged({"page":{"title":"前言","level":"1.1","depth":1,"next":{"title":"系统","level":"1.2","depth":1,"path":"system/README.md","ref":"system/README.md","articles":[{"title":"新版缤纷金","level":"1.2.1","depth":2,"path":"system/new-color-gold.md","ref":"system/new-color-gold.md","articles":[]}]},"dir":"ltr"},"config":{"plugins":["search-pro","code","expandable-chapters","theme-lou","lightbox"],"styles":{"website":"styles/website.css","pdf":"styles/pdf.css","epub":"styles/epub.css","mobi":"styles/mobi.css","ebook":"styles/ebook.css","print":"styles/print.css"},"pluginsConfig":{"search-pro":{},"search":{},"lunr":{"maxIndexSize":1000000,"ignoreSpecialCharacters":false},"code":{"copyButtons":true,"copyButton":true},"theme-lou":{"hide-elements":[".summary .gitbook-link",".summary .divider",".book-anchor-title",".title",".book-summary-title"],"color":"#20A3FF","book-anchor-title":"","logo":"static/logo.png","book-summary-title":"说明文档","search-placeholder":"搜索","copyrightLogo":"assets/copyright.png","favicon":"static/favicon.ico","appleTouchIconPrecomposed152":"static/apple.png"},"fontsettings":{"theme":"white","family":"sans","size":2},"highlight":{},"lightbox":{"jquery":true,"includeJQuery":false,"sameUuid":true,"options":{"resizeDuration":200,"wrapAround":true}},"sharing":{"facebook":true,"twitter":true,"google":false,"weibo":false,"instapaper":false,"vk":false,"all":["facebook","google","twitter","weibo","instapaper"]},"theme-default":{"styles":{"website":"styles/website.css","pdf":"styles/pdf.css","epub":"styles/epub.css","mobi":"styles/mobi.css","ebook":"styles/ebook.css","print":"styles/print.css"},"showLevel":false},"expandable-chapters":{}},"theme":"default","author":"作者","pdf":{"pageNumbers":true,"fontSize":12,"fontFamily":"Arial","paperSize":"a4","chapterMark":"pagebreak","pageBreaksBefore":"/","margin":{"right":62,"left":62,"top":56,"bottom":56}},"structure":{"langs":"LANGS.md","readme":"README.md","glossary":"GLOSSARY.md","summary":"SUMMARY.md"},"isbn":"图书编号","variables":{},"title":"后台说明文档","language":"zh-hans","gitbook":"*","description":"针对于后台的一本说明文档"},"file":{"path":"README.md","mtime":"2022-06-15T07:15:44.764Z","type":"markdown"},"gitbook":{"version":"3.2.3","time":"2022-06-18T02:56:54.617Z"},"basePath":".","book":{"language":""}});
+      gitbook.page.hasChanged({"page":{"title":"前言","level":"1.1","depth":1,"next":{"title":"系统","level":"1.2","depth":1,"path":"system/README.md","ref":"system/README.md","articles":[{"title":"新版缤纷金","level":"1.2.1","depth":2,"path":"system/new-color-gold.md","ref":"system/new-color-gold.md","articles":[]}]},"dir":"ltr"},"config":{"plugins":["search-pro","code","expandable-chapters","theme-lou","lightbox"],"styles":{"website":"styles/website.css","pdf":"styles/pdf.css","epub":"styles/epub.css","mobi":"styles/mobi.css","ebook":"styles/ebook.css","print":"styles/print.css"},"pluginsConfig":{"search-pro":{},"search":{},"lunr":{"maxIndexSize":1000000,"ignoreSpecialCharacters":false},"code":{"copyButtons":true,"copyButton":true},"theme-lou":{"hide-elements":[".summary .gitbook-link",".summary .divider",".book-anchor-title",".title",".book-summary-title"],"color":"#20A3FF","book-anchor-title":"","logo":"static/logo.png","book-summary-title":"说明文档","search-placeholder":"搜索","copyrightLogo":"assets/copyright.png","favicon":"static/favicon.ico","appleTouchIconPrecomposed152":"static/apple.png"},"fontsettings":{"theme":"white","family":"sans","size":2},"highlight":{},"lightbox":{"jquery":true,"includeJQuery":false,"sameUuid":true,"options":{"resizeDuration":200,"wrapAround":true}},"sharing":{"facebook":true,"twitter":true,"google":false,"weibo":false,"instapaper":false,"vk":false,"all":["facebook","google","twitter","weibo","instapaper"]},"theme-default":{"styles":{"website":"styles/website.css","pdf":"styles/pdf.css","epub":"styles/epub.css","mobi":"styles/mobi.css","ebook":"styles/ebook.css","print":"styles/print.css"},"showLevel":false},"expandable-chapters":{}},"theme":"default","author":"作者","pdf":{"pageNumbers":true,"fontSize":12,"fontFamily":"Arial","paperSize":"a4","chapterMark":"pagebreak","pageBreaksBefore":"/","margin":{"right":62,"left":62,"top":56,"bottom":56}},"structure":{"langs":"LANGS.md","readme":"README.md","glossary":"GLOSSARY.md","summary":"SUMMARY.md"},"isbn":"图书编号","variables":{},"title":"后台说明文档","language":"zh-hans","gitbook":"*","description":"针对于后台的一本说明文档"},"file":{"path":"README.md","mtime":"2022-07-05T08:00:05.312Z","type":"markdown"},"gitbook":{"version":"3.2.3","time":"2022-07-05T08:00:33.953Z"},"basePath":".","book":{"language":""}});
     });
   </script>
 </div>

diff --git a/store/index.html b/store/index.html
@@ -342,7 +342,7 @@
 
     var gitbook = gitbook || [];
     gitbook.push(function () {
-      gitbook.page.hasChanged({"page":{"title":"商城","level":"1.3","depth":1,"next":{"title":"四人拼团（返缤纷金）","level":"1.3.1","depth":2,"path":"store/team-rebate.md","ref":"store/team-rebate.md","articles":[]},"previous":{"title":"新版缤纷金","level":"1.2.1","depth":2,"path":"system/new-color-gold.md","ref":"system/new-color-gold.md","articles":[]},"dir":"ltr"},"config":{"plugins":["search-pro","code","expandable-chapters","theme-lou","lightbox"],"styles":{"website":"styles/website.css","pdf":"styles/pdf.css","epub":"styles/epub.css","mobi":"styles/mobi.css","ebook":"styles/ebook.css","print":"styles/print.css"},"pluginsConfig":{"search-pro":{},"search":{},"lunr":{"maxIndexSize":1000000,"ignoreSpecialCharacters":false},"code":{"copyButtons":true,"copyButton":true},"theme-lou":{"hide-elements":[".summary .gitbook-link",".summary .divider",".book-anchor-title",".title",".book-summary-title"],"color":"#20A3FF","book-anchor-title":"","logo":"static/logo.png","book-summary-title":"说明文档","search-placeholder":"搜索","copyrightLogo":"assets/copyright.png","favicon":"static/favicon.ico","appleTouchIconPrecomposed152":"static/apple.png"},"fontsettings":{"theme":"white","family":"sans","size":2},"highlight":{},"lightbox":{"jquery":true,"includeJQuery":false,"sameUuid":true,"options":{"resizeDuration":200,"wrapAround":true}},"sharing":{"facebook":true,"twitter":true,"google":false,"weibo":false,"instapaper":false,"vk":false,"all":["facebook","google","twitter","weibo","instapaper"]},"theme-default":{"styles":{"website":"styles/website.css","pdf":"styles/pdf.css","epub":"styles/epub.css","mobi":"styles/mobi.css","ebook":"styles/ebook.css","print":"styles/print.css"},"showLevel":false},"expandable-chapters":{}},"theme":"default","author":"作者","pdf":{"pageNumbers":true,"fontSize":12,"fontFamily":"Arial","paperSize":"a4","chapterMark":"pagebreak","pageBreaksBefore":"/","margin":{"right":62,"left":62,"top":56,"bottom":56}},"structure":{"langs":"LANGS.md","readme":"README.md","glossary":"GLOSSARY.md","summary":"SUMMARY.md"},"isbn":"图书编号","variables":{},"title":"后台说明文档","language":"zh-hans","gitbook":"*","description":"针对于后台的一本说明文档"},"file":{"path":"store/README.md","mtime":"2022-06-15T05:54:31.332Z","type":"markdown"},"gitbook":{"version":"3.2.3","time":"2022-06-18T02:56:54.617Z"},"basePath":"..","book":{"language":""}});
+      gitbook.page.hasChanged({"page":{"title":"商城","level":"1.3","depth":1,"next":{"title":"四人拼团（返缤纷金）","level":"1.3.1","depth":2,"path":"store/team-rebate.md","ref":"store/team-rebate.md","articles":[]},"previous":{"title":"新版缤纷金","level":"1.2.1","depth":2,"path":"system/new-color-gold.md","ref":"system/new-color-gold.md","articles":[]},"dir":"ltr"},"config":{"plugins":["search-pro","code","expandable-chapters","theme-lou","lightbox"],"styles":{"website":"styles/website.css","pdf":"styles/pdf.css","epub":"styles/epub.css","mobi":"styles/mobi.css","ebook":"styles/ebook.css","print":"styles/print.css"},"pluginsConfig":{"search-pro":{},"search":{},"lunr":{"maxIndexSize":1000000,"ignoreSpecialCharacters":false},"code":{"copyButtons":true,"copyButton":true},"theme-lou":{"hide-elements":[".summary .gitbook-link",".summary .divider",".book-anchor-title",".title",".book-summary-title"],"color":"#20A3FF","book-anchor-title":"","logo":"static/logo.png","book-summary-title":"说明文档","search-placeholder":"搜索","copyrightLogo":"assets/copyright.png","favicon":"static/favicon.ico","appleTouchIconPrecomposed152":"static/apple.png"},"fontsettings":{"theme":"white","family":"sans","size":2},"highlight":{},"lightbox":{"jquery":true,"includeJQuery":false,"sameUuid":true,"options":{"resizeDuration":200,"wrapAround":true}},"sharing":{"facebook":true,"twitter":true,"google":false,"weibo":false,"instapaper":false,"vk":false,"all":["facebook","google","twitter","weibo","instapaper"]},"theme-default":{"styles":{"website":"styles/website.css","pdf":"styles/pdf.css","epub":"styles/epub.css","mobi":"styles/mobi.css","ebook":"styles/ebook.css","print":"styles/print.css"},"showLevel":false},"expandable-chapters":{}},"theme":"default","author":"作者","pdf":{"pageNumbers":true,"fontSize":12,"fontFamily":"Arial","paperSize":"a4","chapterMark":"pagebreak","pageBreaksBefore":"/","margin":{"right":62,"left":62,"top":56,"bottom":56}},"structure":{"langs":"LANGS.md","readme":"README.md","glossary":"GLOSSARY.md","summary":"SUMMARY.md"},"isbn":"图书编号","variables":{},"title":"后台说明文档","language":"zh-hans","gitbook":"*","description":"针对于后台的一本说明文档"},"file":{"path":"store/README.md","mtime":"2022-06-18T02:56:59.340Z","type":"markdown"},"gitbook":{"version":"3.2.3","time":"2022-07-05T08:00:33.953Z"},"basePath":"..","book":{"language":""}});
     });
   </script>
 </div>

diff --git a/system/index.html b/system/index.html
@@ -342,7 +342,7 @@
 
     var gitbook = gitbook || [];
     gitbook.push(function () {
-      gitbook.page.hasChanged({"page":{"title":"系统","level":"1.2","depth":1,"next":{"title":"新版缤纷金","level":"1.2.1","depth":2,"path":"system/new-color-gold.md","ref":"system/new-color-gold.md","articles":[]},"previous":{"title":"前言","level":"1.1","depth":1,"path":"README.md","ref":"README.md","articles":[]},"dir":"ltr"},"config":{"plugins":["search-pro","code","expandable-chapters","theme-lou","lightbox"],"styles":{"website":"styles/website.css","pdf":"styles/pdf.css","epub":"styles/epub.css","mobi":"styles/mobi.css","ebook":"styles/ebook.css","print":"styles/print.css"},"pluginsConfig":{"search-pro":{},"search":{},"lunr":{"maxIndexSize":1000000,"ignoreSpecialCharacters":false},"code":{"copyButtons":true,"copyButton":true},"theme-lou":{"hide-elements":[".summary .gitbook-link",".summary .divider",".book-anchor-title",".title",".book-summary-title"],"color":"#20A3FF","book-anchor-title":"","logo":"static/logo.png","book-summary-title":"说明文档","search-placeholder":"搜索","copyrightLogo":"assets/copyright.png","favicon":"static/favicon.ico","appleTouchIconPrecomposed152":"static/apple.png"},"fontsettings":{"theme":"white","family":"sans","size":2},"highlight":{},"lightbox":{"jquery":true,"includeJQuery":false,"sameUuid":true,"options":{"resizeDuration":200,"wrapAround":true}},"sharing":{"facebook":true,"twitter":true,"google":false,"weibo":false,"instapaper":false,"vk":false,"all":["facebook","google","twitter","weibo","instapaper"]},"theme-default":{"styles":{"website":"styles/website.css","pdf":"styles/pdf.css","epub":"styles/epub.css","mobi":"styles/mobi.css","ebook":"styles/ebook.css","print":"styles/print.css"},"showLevel":false},"expandable-chapters":{}},"theme":"default","author":"作者","pdf":{"pageNumbers":true,"fontSize":12,"fontFamily":"Arial","paperSize":"a4","chapterMark":"pagebreak","pageBreaksBefore":"/","margin":{"right":62,"left":62,"top":56,"bottom":56}},"structure":{"langs":"LANGS.md","readme":"README.md","glossary":"GLOSSARY.md","summary":"SUMMARY.md"},"isbn":"图书编号","variables":{},"title":"后台说明文档","language":"zh-hans","gitbook":"*","description":"针对于后台的一本说明文档"},"file":{"path":"system/README.md","mtime":"2022-06-15T07:40:46.816Z","type":"markdown"},"gitbook":{"version":"3.2.3","time":"2022-06-18T02:56:54.617Z"},"basePath":"..","book":{"language":""}});
+      gitbook.page.hasChanged({"page":{"title":"系统","level":"1.2","depth":1,"next":{"title":"新版缤纷金","level":"1.2.1","depth":2,"path":"system/new-color-gold.md","ref":"system/new-color-gold.md","articles":[]},"previous":{"title":"前言","level":"1.1","depth":1,"path":"README.md","ref":"README.md","articles":[]},"dir":"ltr"},"config":{"plugins":["search-pro","code","expandable-chapters","theme-lou","lightbox"],"styles":{"website":"styles/website.css","pdf":"styles/pdf.css","epub":"styles/epub.css","mobi":"styles/mobi.css","ebook":"styles/ebook.css","print":"styles/print.css"},"pluginsConfig":{"search-pro":{},"search":{},"lunr":{"maxIndexSize":1000000,"ignoreSpecialCharacters":false},"code":{"copyButtons":true,"copyButton":true},"theme-lou":{"hide-elements":[".summary .gitbook-link",".summary .divider",".book-anchor-title",".title",".book-summary-title"],"color":"#20A3FF","book-anchor-title":"","logo":"static/logo.png","book-summary-title":"说明文档","search-placeholder":"搜索","copyrightLogo":"assets/copyright.png","favicon":"static/favicon.ico","appleTouchIconPrecomposed152":"static/apple.png"},"fontsettings":{"theme":"white","family":"sans","size":2},"highlight":{},"lightbox":{"jquery":true,"includeJQuery":false,"sameUuid":true,"options":{"resizeDuration":200,"wrapAround":true}},"sharing":{"facebook":true,"twitter":true,"google":false,"weibo":false,"instapaper":false,"vk":false,"all":["facebook","google","twitter","weibo","instapaper"]},"theme-default":{"styles":{"website":"styles/website.css","pdf":"styles/pdf.css","epub":"styles/epub.css","mobi":"styles/mobi.css","ebook":"styles/ebook.css","print":"styles/print.css"},"showLevel":false},"expandable-chapters":{}},"theme":"default","author":"作者","pdf":{"pageNumbers":true,"fontSize":12,"fontFamily":"Arial","paperSize":"a4","chapterMark":"pagebreak","pageBreaksBefore":"/","margin":{"right":62,"left":62,"top":56,"bottom":56}},"structure":{"langs":"LANGS.md","readme":"README.md","glossary":"GLOSSARY.md","summary":"SUMMARY.md"},"isbn":"图书编号","variables":{},"title":"后台说明文档","language":"zh-hans","gitbook":"*","description":"针对于后台的一本说明文档"},"file":{"path":"system/README.md","mtime":"2022-06-18T02:56:59.355Z","type":"markdown"},"gitbook":{"version":"3.2.3","time":"2022-07-05T08:00:33.953Z"},"basePath":"..","book":{"language":""}});
     });
   </script>
 </div>

diff --git a/store/team-rebate.md b/store/team-rebate.md
@@ -1,4 +1,4 @@
-# 四人拼团（返缤纷金）
+四人拼团（返缤纷金）
 
 功能路径 **商城-促销-拼团管理 **
 
@@ -12,52 +12,9 @@
 
 ## 添加四人拼团（返缤纷金）
 
-![](static/添加四人拼团1.png)
+### ![](static/拼团参数说明1.png)
 
-**拼团标题**：上一级拼团列表显示的拼团名字，标识符
-
-**发放类型**：选择**四人拼团** ，这里的四人拼团选项就是拼团返缤纷金的选项
-
-**选择拼团商品**：在商品库中，选择<font color=red>一款活动/品牌缤纷金</font>商品作为拼团商品（	<font color=red>注意：返缤纷金的类型，取决于该商品属于活动/品牌缤纷金商品</font>）【设置缤纷金商品地址（系统-设置-新版缤纷金设置）】
-
-**成团有效期**：拼团订单的过期时间
-
-**缤纷金有效时间**：返还缤纷金的有效时间，从拼团成功后的时间开始计算
-
-**四人拼团分组**：把几个拼团活动商品整合成一个活动小组，同一活动小组的拼团共享开团次数和参团次数。相同数字的几个商品被视为一组。
-
-**开团次数商品**：拼团发起者的最大发起次数
-
-**参团次数上限**：拼团参与者的最大参与次数
-
-**拼团价格**：商品在拼团活动里的价格
-
-**需要成团人数**：拼团需要的成功人数
-
-**虚拟销售基数**：四人拼团功能未展示已销售数量，可忽略
-
-![](static/添加四人拼团2.png)
-
-**开始时间**：拼团商品开团的时间，可提前几天添加，用户端会显示开团的开始时间
-
-**结束时间**：拼团商品结束的时间。用户端会有倒计时，最大单位：天
-
-**分享标题**：分享拼团时的标题
-
-**分享描述**：分享拼团时的具体描述
-
-**分享图片**：分享拼团时的图片
-
-**参团用户**：默认全部会员，当选择新注册用户时，则老用户无法拼团
-
-**是否包邮**：选择不包邮时，可在右边选择运费模板，为当前商品选择独立的运费规则
-
-**是否自动确认拼团**：默认是，四人拼团不能选择否
-
-
-
-### 注意
-
+![](static/拼团参数说明2.png)
 添加拼团后，未有拼团订单时，可对拼团设置进行更改，当已创建拼团订单后，将无法更改拼团设置
 
 
@@ -66,7 +23,7 @@
 
   ![](static/拼团列表退款1.png)
 
-### 仅针对拼团成功的订单
+
 
 ### 点击查看订单进入(支持此操作时，会显示在操作信息里)
 
@@ -74,4 +31,4 @@
 
 ### 注意
 
-<font style="color:red">1.收到货后14天后，解冻缤纷金</font>
+<font style="color:red">1.收到货或者用户确认收货后，7天后，解冻缤纷金</font>

diff --git a/system/new-color-gold.md b/system/new-color-gold.md
@@ -8,20 +8,6 @@
 
 <img src="static/新版缤纷金.png"  />
 
-点击 **选择商品**  可以从已有的商品库中，选择其中的普通商品，使其加上对应的标签
-
-点击 **上传文件 ** 可以从 `.xls .xlsx .csv`这三中表格格式中，批量导入需要加入的商品
-
-#### 活动/综合缤纷金使用比例
-
-![](static/缤纷金比例.png)
-
-此处的 **使用比例**是指当前商品活动/品牌缤纷金使用比例
-
-商品价格 * 使用比例 = 商品最大能使用的活动/品牌缤纷金数量
-
-设置为0则表示  仅在拼团订单中显示
-
 #### 注意
 
 在点击底部  **确认提交** 按钮之后，上方选择的商品才会被添加上活动/品牌缤纷金标签
